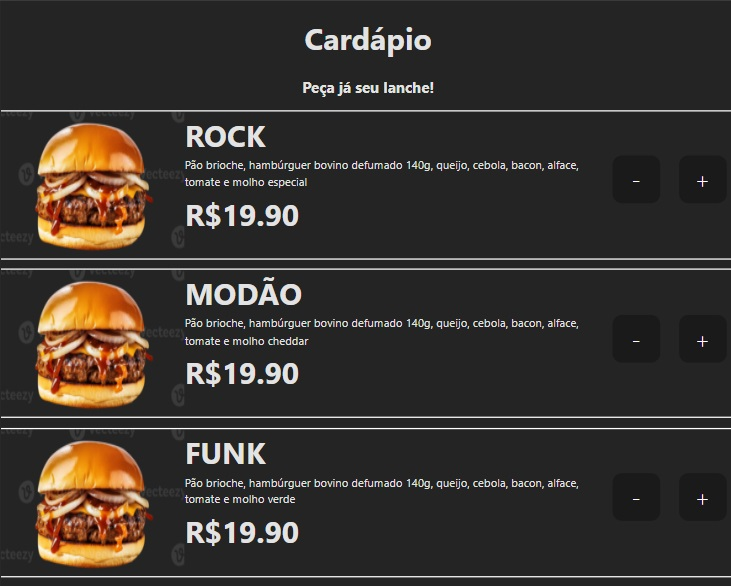
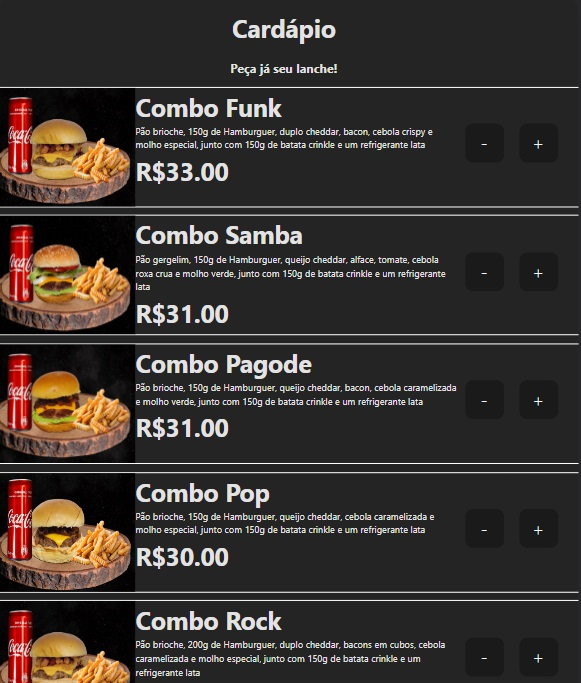
add: imagens do banco de dados, e atualização das imagens do README

diff --git a/frontend/acusticoburguer-menu/src/components/card/card.css b/frontend/acusticoburguer-menu/src/components/card/card.css
@@ -2,20 +2,20 @@
   display: flex;
   border-top: 1px solid #ffffff;
   border-bottom: 1px solid #ffffff;
-  margin-bottom: 20px;
+  padding: 0px;
+  margin-bottom: 5px;
+  width: 100%;
 }
 
-.card img {
-  width: 250px;
-  height: 200px;
-  margin-top: 10px;
-  margin-left: 10px;
-}
+.card img{
+  width: 25vw;
+  height: 20vw;
+  margin: 0px;
+  }
 
 .card-title {
-  font-size: 1.2em;
-  margin-bottom: 10px;
-  margin-left: 10px;
+  font-size: 1.5em;
+  margin: 0px;
 }
 
 .card-description {
@@ -30,6 +30,31 @@ button {
   float: right;
   margin: 5px;
   margin-bottom: 10px;
+}
+
+.card-content {
+  width: 100vw;
+}
+
+.card-button {
+  margin-right: 10px;
+  width: 20vw;
+  display: flex;
+  justify-content: center;
+  align-items: center;
+  font-size: 1.5em;
+  float: right;
+}
+
+.card-button button {
+  height: 60px;
+  width: 60px;
+  font-size: 0.5em;
+  padding: 1em;
+  border-radius: 5px;
+  display: flex;
+  justify-content: center;
+  align-items: center;
 }
 
 @media only screen and (max-width: 390px) and (max-height: 844px) {
